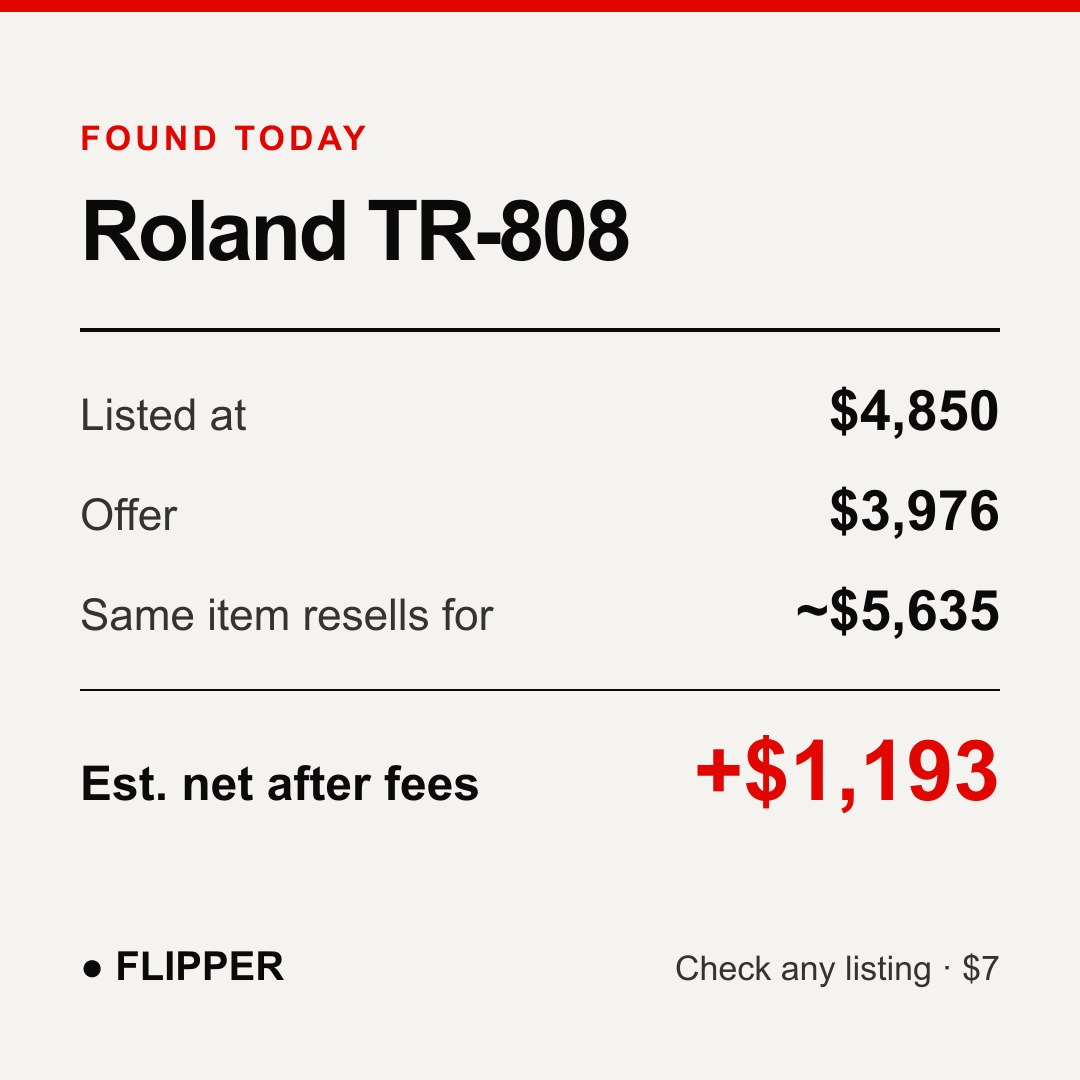
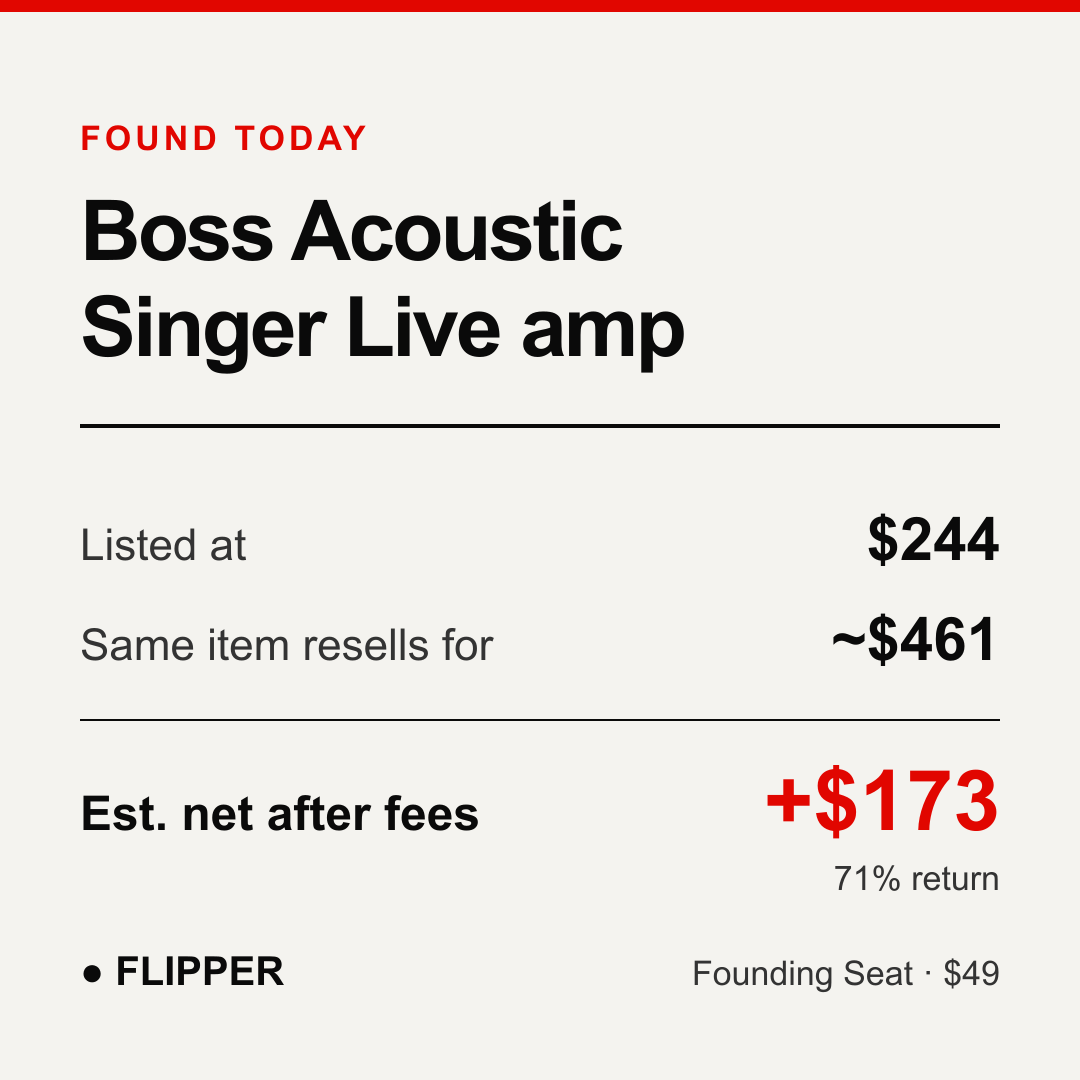
Lead with affordable, high-ROI deals; new listing ad images
- Homepage, ticker and posts feature deals under $800, best ROI first
- Ad cards: Boss amp, Aston mic, three deals under $250

diff --git a/agents/marketer.ts b/agents/marketer.ts
@@ -1,7 +1,7 @@
 import Anthropic from "@anthropic-ai/sdk";
 import { db, getConfig, logAction } from "@/lib/db";
 import { SITE_URL } from "@/lib/site";
-import { usd, type Deal } from "@/lib/queries";
+import { FEATURED_MAX_BUY, usd, type Deal } from "@/lib/queries";
 
 // Marketer runs every minute (its own pg_cron job). Each run, every connected channel whose
 // spacing has passed gets one post. Spacing keeps accounts out of spam filters: a suspended
@@ -148,8 +148,9 @@ export async function run() {
   if (!d || !live.length) return { posted: 0 };
   const cadence = { ...DEFAULT_CADENCE_MIN, ...(await getConfig<Record<string, number>>("marketing_cadence", {})) };
   const [{ data: fresh }, { data: recent }] = await Promise.all([
+    // Affordable, high-return finds sell the Seat better than five-figure gear.
     d.from("deals").select("*").neq("status", "expired").gte("created_at", new Date(Date.now() - 864e5).toISOString())
-      .order("final_score", { ascending: false }).limit(200),
+      .lte("buy_price", FEATURED_MAX_BUY).order("roi", { ascending: false }).limit(200),
     d.from("posts").select("channel, deal_id, created_at").in("channel", live)
       .gte("created_at", new Date(Date.now() - 2 * 864e5).toISOString()).order("created_at", { ascending: false }),
   ]);

diff --git a/lib/queries.ts b/lib/queries.ts
@@ -56,6 +56,9 @@ export async function homeVariant(): Promise<"A" | "B"> {
   return data?.value === "B" ? "B" : "A";
 }
 
+// Deals most people can actually buy lead the public pages: best return under the price cap.
+export const FEATURED_MAX_BUY = 800;
+
 export async function topDeals(limit = 6): Promise<Deal[]> {
   "use cache";
   cacheLife("minutes");
@@ -63,7 +66,8 @@ export async function topDeals(limit = 6): Promise<Deal[]> {
     ?.from("deals")
     .select("*")
     .neq("status", "expired")
-    .order("final_score", { ascending: false })
+    .lte("buy_price", FEATURED_MAX_BUY)
+    .order("roi", { ascending: false })
     .limit(limit)) ?? {};
   return ((data as Deal[]) ?? []).map(forPublic);
 }
